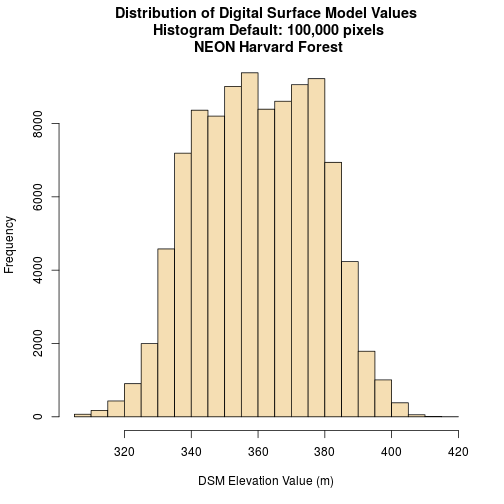
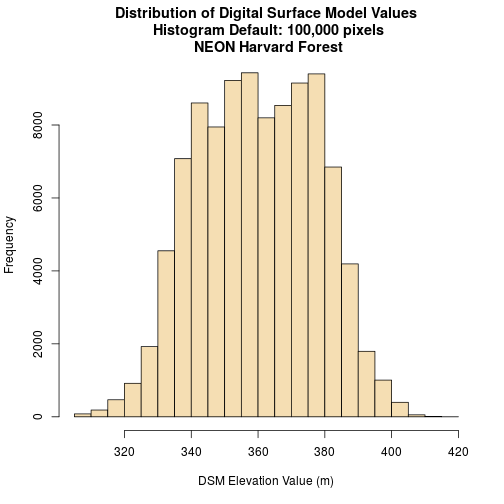
rebuild episodes

diff --git a/episodes/09-vector-when-data-dont-line-up-crs.md b/episodes/09-vector-when-data-dont-line-up-crs.md
@@ -108,8 +108,8 @@ We will use the `rgdal` and `raster` libraries in this tutorial.
 
 ~~~
 # load packages
-library(sf)  # for vector work; sp package should always load with rgdal. 
-library (raster)   # for metadata/attributes- vectors or rasters
+library(sf)  # for vector work
+library (raster)   # for raster metadata/attributes 
 
 # set working directory to data folder
 # setwd("pathToDirHere")

diff --git a/episodes/10-vector-csv-to-shapefile-in-r.md b/episodes/10-vector-csv-to-shapefile-in-r.md
@@ -94,8 +94,8 @@ We will use the `rgdal` and `raster` libraries in this tutorial.
 
 ~~~
 # load packages
-library(sf)  # for vector work; sp package should always load with rgdal. 
-library(raster)   # for metadata/attributes- vectors or rasters
+library(sf)  # for vector work; 
+library(raster)   # for  raster metadata/attributes
 
 # set working directory to data folder
 # setwd("pathToDirHere")

diff --git a/episodes/07-vector-shapefile-attributes-in-r.md b/episodes/07-vector-shapefile-attributes-in-r.md
@@ -79,9 +79,9 @@ tutorial, you can skip this code.
 
 ~~~
 # load packages
-# rgdal: for vector work; sp package should always load with rgdal. 
+# rgdal: for vector work
 library(sf)  
-# raster: for metadata/attributes- vectors or rasters
+# raster: for raster metadata/attributes 
 library (raster)   
 
 # set working directory to data folder

diff --git a/episodes/08-vector-plot-shapefiles-custom-legend.md b/episodes/08-vector-plot-shapefiles-custom-legend.md
@@ -72,9 +72,7 @@ location. These latter two we worked with in the
 
 ~~~
 # load packages
-# rgdal: for vector work; sp package should always load with rgdal. 
 library(sf)  
-# raster: for metadata/attributes- vectors or rasters
 library(raster)   
 
 # set working directory to data folder

diff --git a/episodes/02-raster-plot.md b/episodes/02-raster-plot.md
@@ -153,7 +153,7 @@ DSMhist$counts
 
 
 ~~~
-[1] 31908 67607   485
+[1] 32141 67395   464
 ~~~
 {: .output}
 
